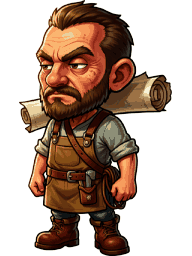
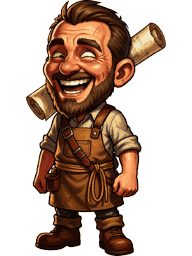
game-card-world: 건축가 포트레이트를 웃는 표정으로 다시 생성

diff --git a/game-card-world/docs/아이콘_목록.md b/game-card-world/docs/아이콘_목록.md
@@ -704,9 +704,9 @@ an inanimate object only, no face, no eyes, no arms, no legs, no people, no crea
 <!-- icon:portrait_architect -->
 ### portrait_architect — 건축가
 - 파일: `images/portrait/portrait_architect.png`
-- 생성: 2026-09-17 · seed `53979369120411` · 옵션 `--kind character`
+- 생성: 2026-09-17 · seed `231238554764674` · 옵션 `--kind character`
 ```
-full body, facing left, of a wiry middle-aged builder, squinting measuring eyes, weathered tanned face with dust on the cheeks, short bristly beard, a rolled parchment plan tucked behind one ear, a leather strap across the shoulder, work apron with a hammer and measuring cord, rolled-up sleeves, sturdy boots, confident stance, strong shading
+full body, facing left, of a wiry middle-aged builder with a big hearty laughing grin, cheerful crinkled eyes, weathered tanned face with dust on the cheeks, short bristly beard, a rolled parchment plan tucked behind one ear, a leather strap across the shoulder, work apron with a hammer and measuring cord, rolled-up sleeves, sturdy boots, relaxed confident stance, strong shading
 ```
 <!-- /icon -->
 

diff --git a/game-card-world/docs/기능.md b/game-card-world/docs/기능.md
@@ -1558,7 +1558,7 @@
 - [ ] `portrait_hostage` — 카드와 같은 검은 실루엣, 무릎 안고 앉아 밧줄에 묶인 모습 (외모 특정 안 됨)
 - [ ] 두 캐릭터를 인스펙터 포트레이트 목록(`PORTRAITS`)에 등록
   - 판단: 인질은 빈사라 인스펙터에서 무채색 처리되지만 원래 실루엣이라 달라 보이지 않음
-  - 판단: 건축가 표정이 약간 무뚝뚝함 — 대사 성격(쾌남)과 다르면 다시 뽑기
+  - ~~판단: 건축가 표정이 약간 무뚝뚝함~~ → 호탕하게 웃는 표정으로 다시 뽑음 (사용자 요청)
 
 ## 143. 생산시설 기다림 통일 · 신의 입 바로 삼킴 (v0.136.0)
 - [ ] **생산시설은 나올 카드가 하나도 못 나오면(월드 5장 상한) 게이지가 가득 찬 채로 기다림** — 자리가 생기면 바로 나옴
